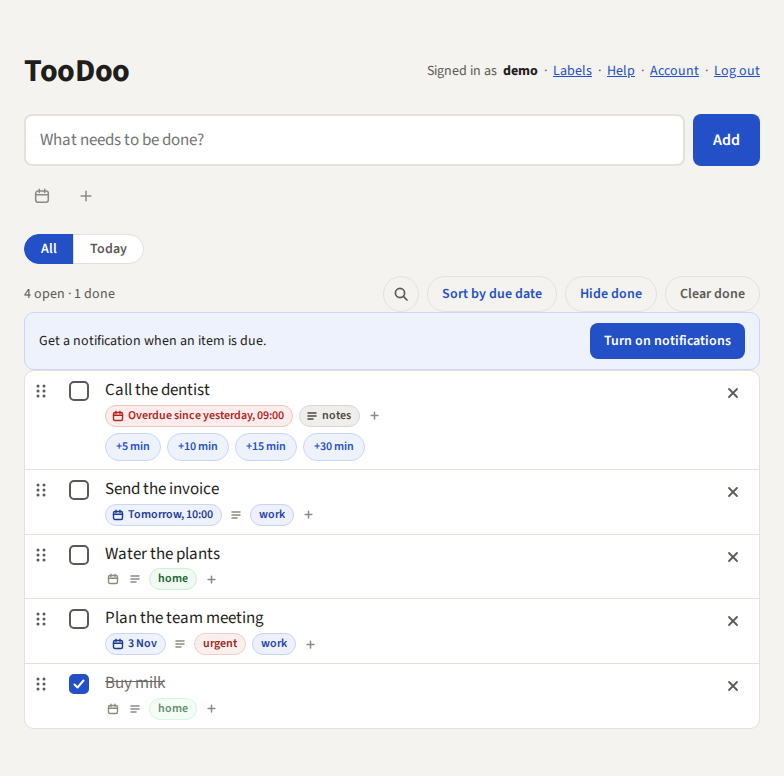
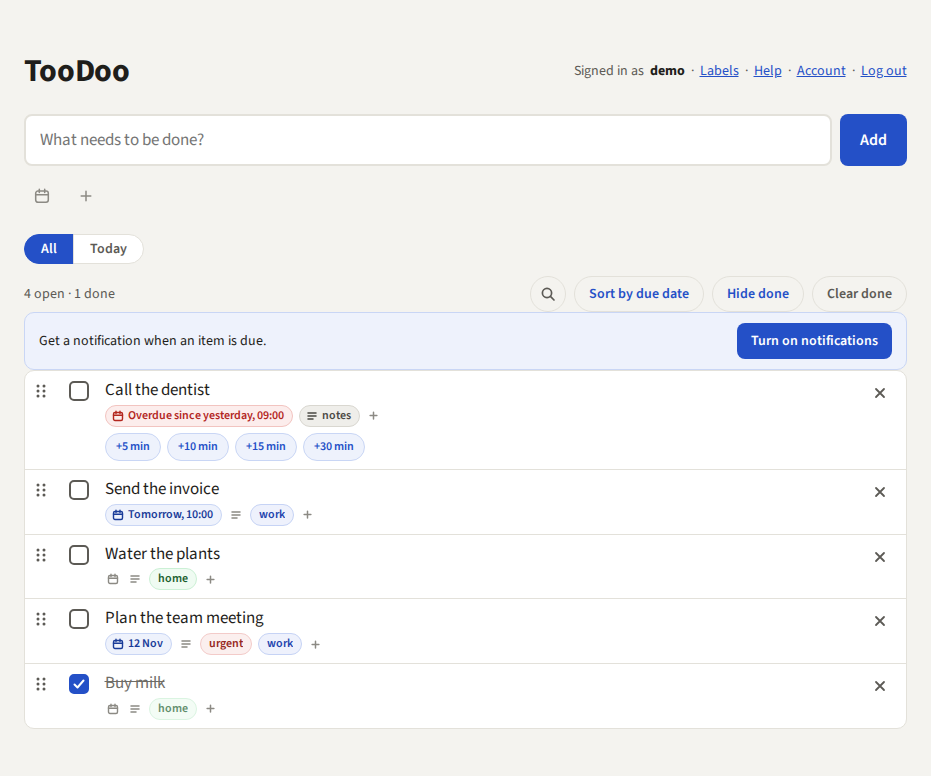
style: make the content column 20% wider (931 px)
The list column on a computer screen is now 931 px (a list of 883 px
plus 24 px padding on each side), 20% wider than before.

diff --git a/internal/web/static/app.css b/internal/web/static/app.css
@@ -19,8 +19,10 @@ body {
   font-family: "Source Sans 3", system-ui, sans-serif;
 }
 
+/* The list page: 20% wider on a computer screen (canvas page "23 · Wider
+   content"), a list of 883 px. Other pages set their own max-width. */
 main {
-  max-width: 784px;
+  max-width: 931px;
   margin: 0 auto;
   padding: 48px 24px;
   display: flex;

diff --git a/internal/web/index_test.go b/internal/web/index_test.go
@@ -109,12 +109,14 @@ func TestStaticDirectoryListingIs404(t *testing.T) {
 	}
 }
 
-// The content column is 40% wider than the first design (560 px → 784 px).
+// The content column is 40% wider than the first design (560 px → 784 px),
+// and then 20% wider again for the list (canvas page "23 · Wider content"):
+// a list of 883 px, plus 24 px padding on each side.
 func TestContentColumnWidth(t *testing.T) {
 	h, _ := newTestApp(t)
 	body := do(t, h, "GET", "/static/app.css", nil, nil).Body.String()
-	// The list column (main) is 784 px; other pages, like the account page, have their own width.
-	assertContains(t, body, "main {\n  max-width: 784px;")
+	// The list column (main) is 931 px; other pages, like the account page, have their own width.
+	assertContains(t, body, "main {\n  max-width: 931px;")
 }
 
 // The rows do not show when an item was added (canvas page 15, option A); a
